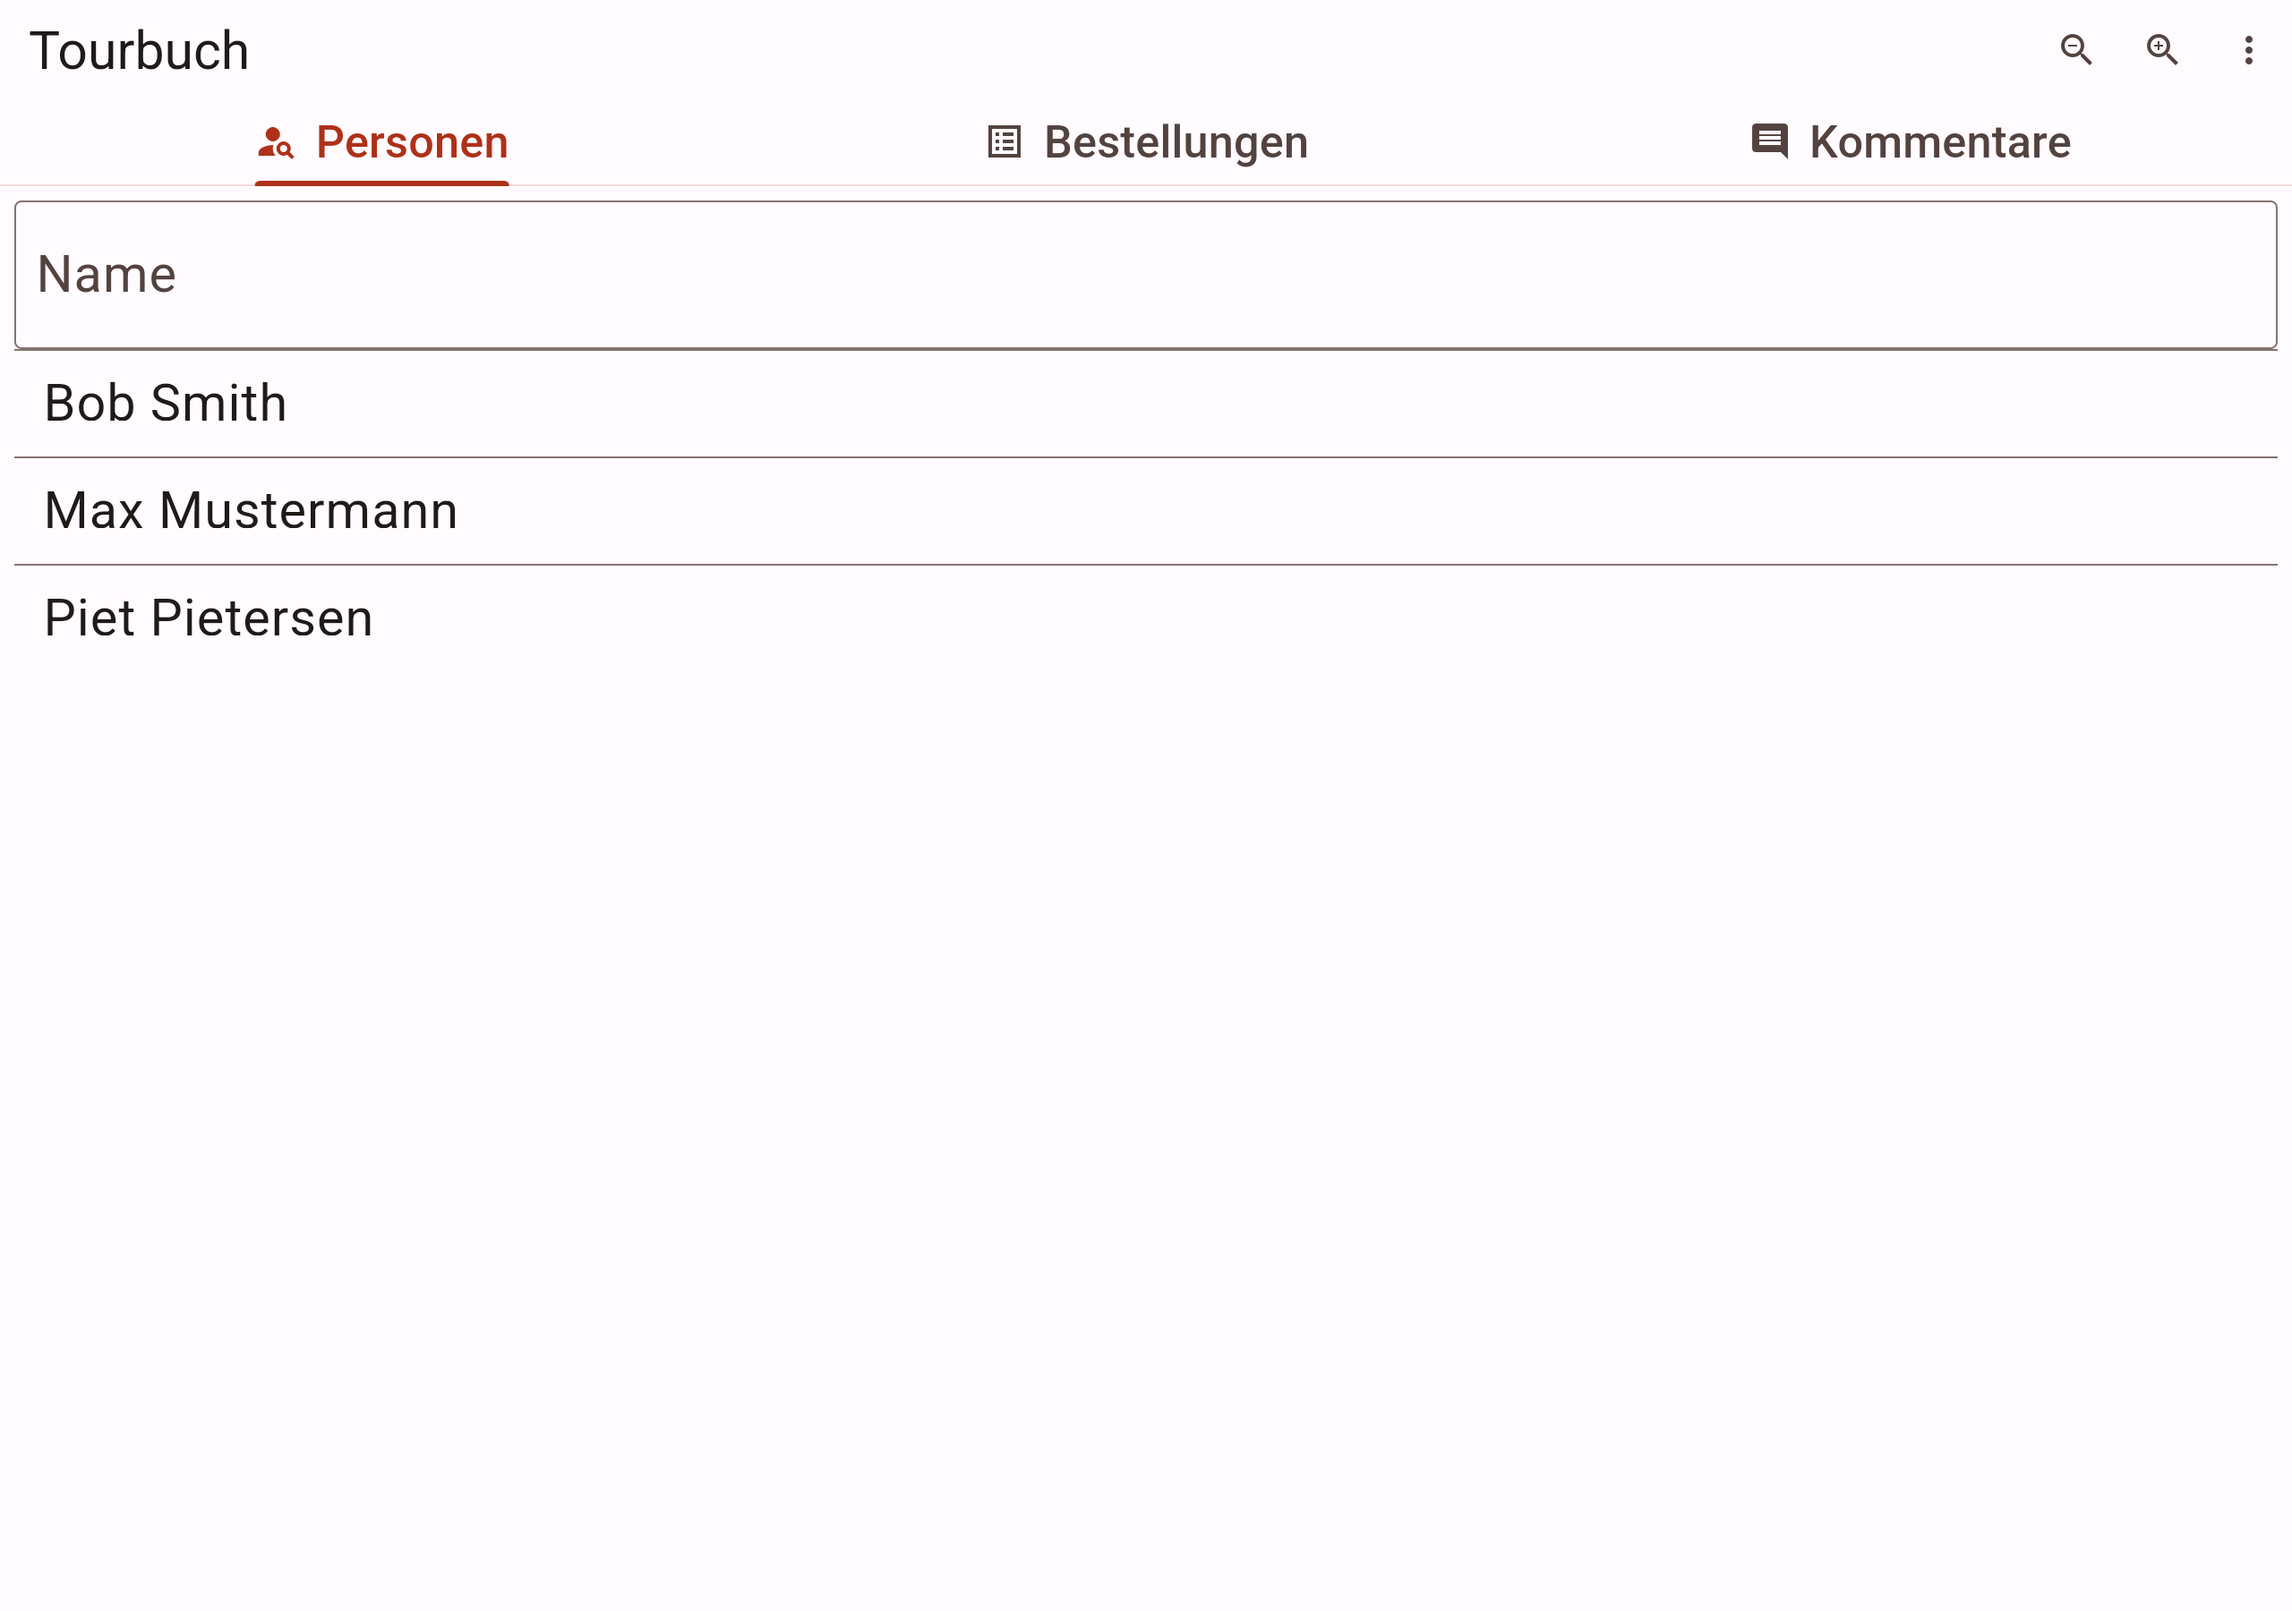
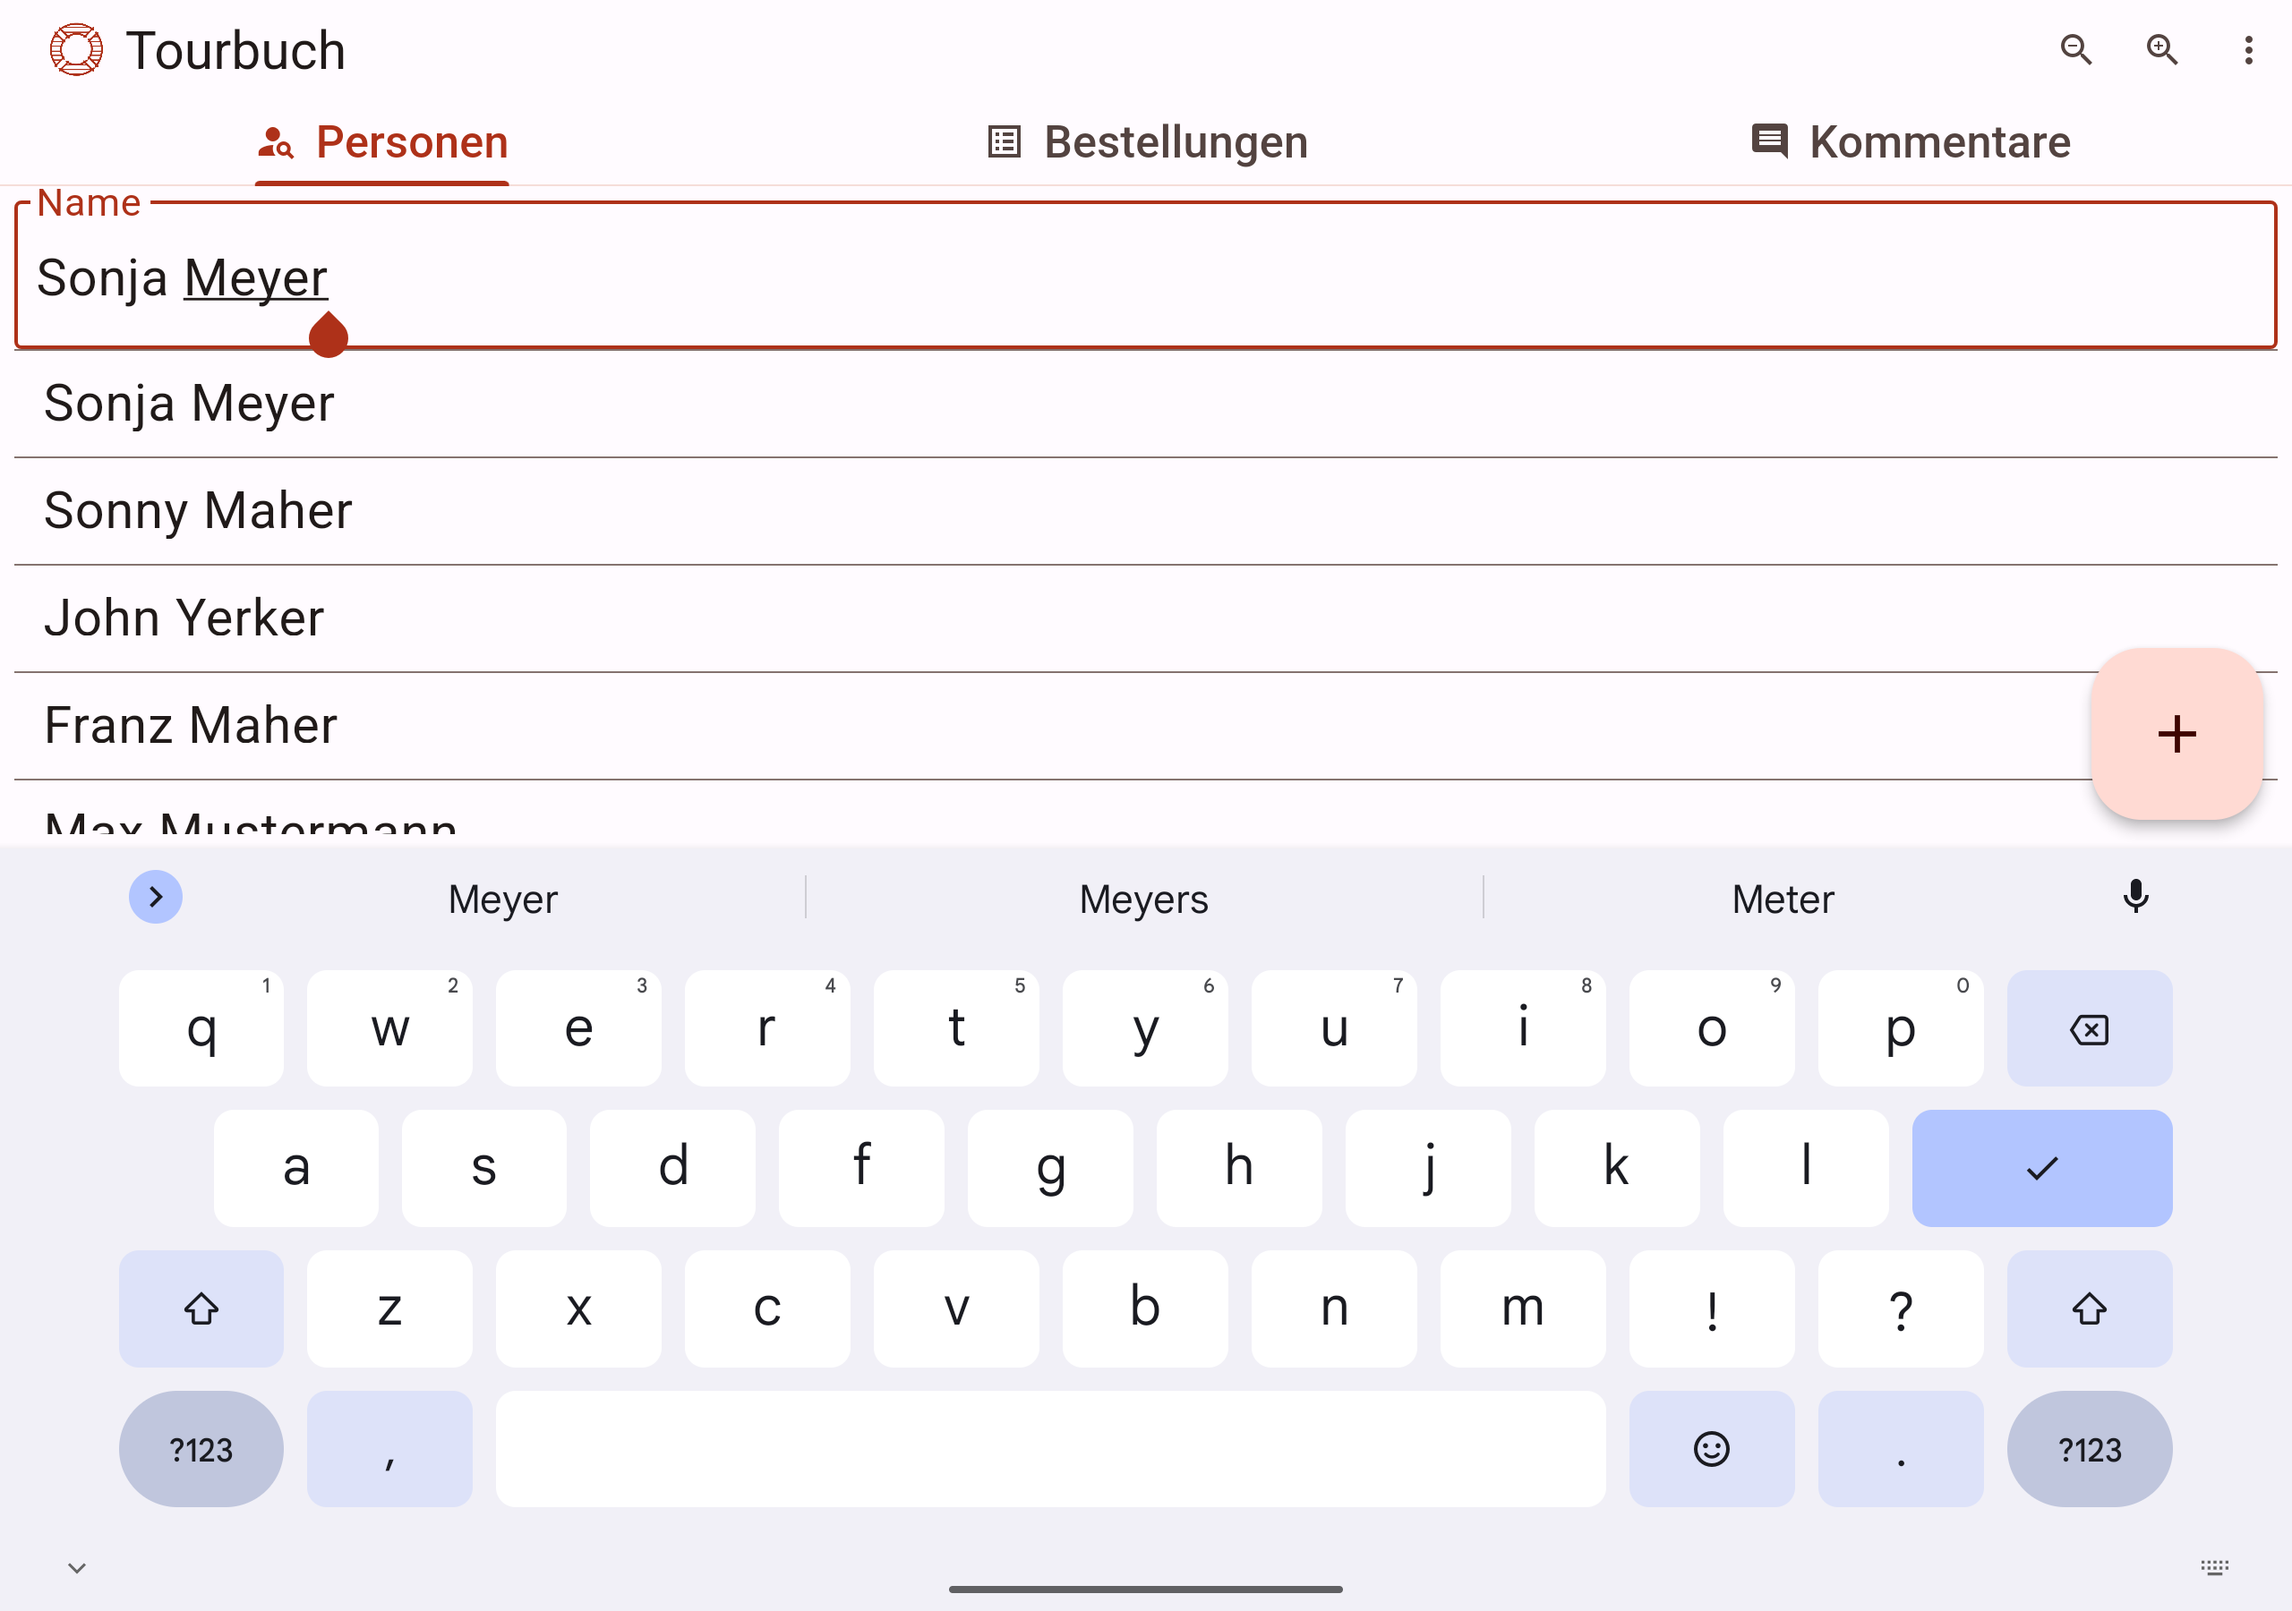
update readme

diff --git a/README.md b/README.md
@@ -19,7 +19,7 @@ It consists of the following main parts:
 New guest can be created, edited or easily be found by a fuzzy search over the total name.
 In case a guest is duplicated, an easy merge of guest is provided.
 
-List of guests:
+List of guests with user-search:
 
 <img src="documentation/guest_list.png" alt="Guest list" width="800" height="auto">
 
